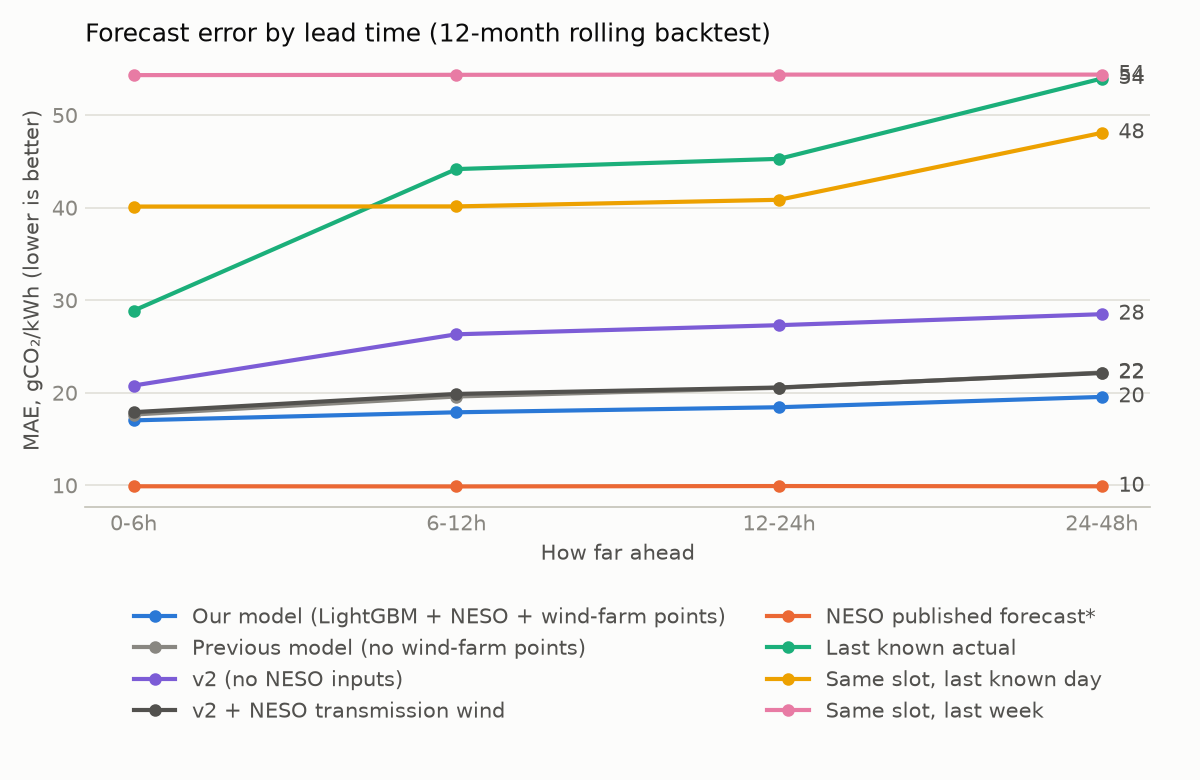
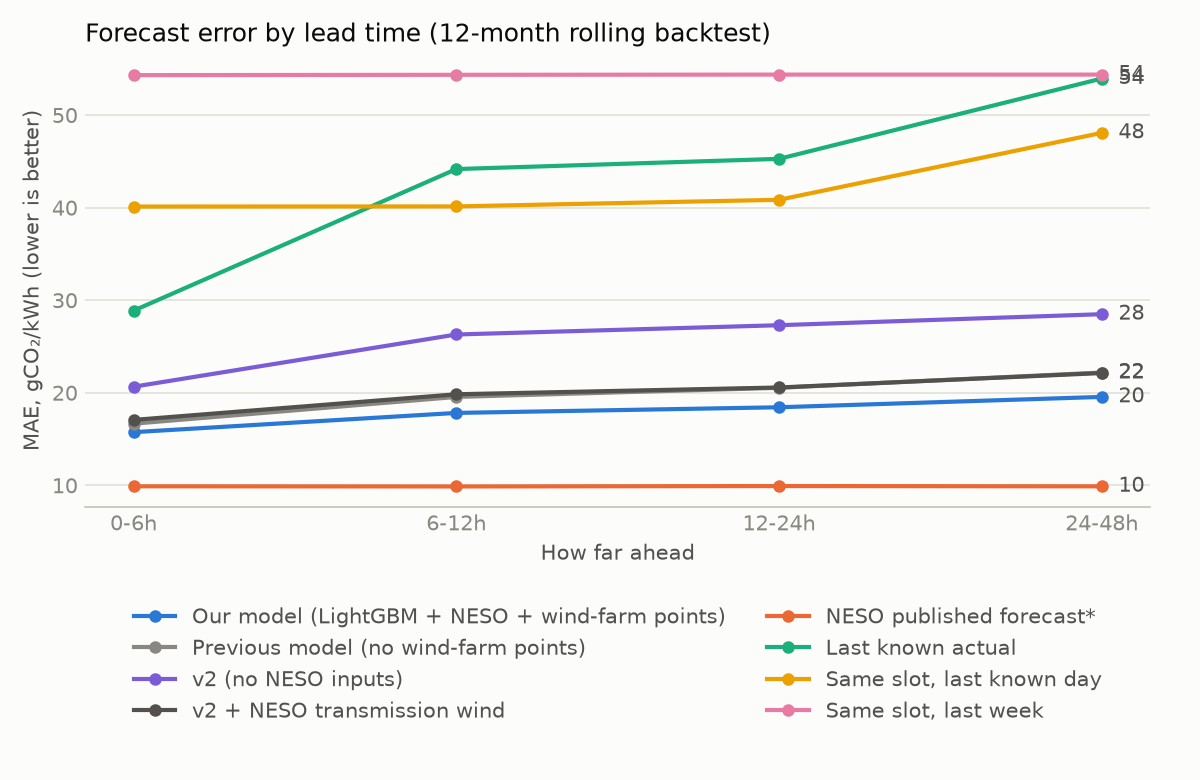
Persistence decay 6 -> 2 (re-checked on held-out months); refresh backtest docs (#44)

Changed region(s): [[0.0925, 0.4615, 0.4625, 0.5846], [0.2775, 0.4308, 0.3083, 0.4615]]

diff --git a/analysis/backtest.py b/analysis/backtest.py
@@ -140,7 +140,7 @@ _Generated by `analysis/backtest.py`. {preds["issued_at"].nunique():,} forecasts
 over the last 12 months, each predicting the next 48 h (96 half-hours): {len(preds):,} predictions._
 
 **Method.** Direct multi-horizon LightGBM: one model, lead time as a feature, pulled towards the
-last known actual at short leads (weight exp(-(lead-1)/6), tuned on the first 6 test months only).
+last known actual at short leads (weight exp(-(lead-1)/{fc.PERSISTENCE_DECAY}), tuned on the first 6 test months only).
 Training issues every 6.5 h, so every half-hour of the day is seen as an issue time. Rolling origin: for
 each test month the model is retrained only on rows whose *targets* fall before the month starts.
 Features use only data available at issue time: actuals end 1 h before issue (publication lag),

diff --git a/tests/test_forecast.py b/tests/test_forecast.py
@@ -102,6 +102,13 @@ def test_blend_trusts_last_actual_at_lead_1_and_model_far_out():
     assert out[2] == 170  # no known actual: the model
 
 
+def test_blend_weight_decays_with_lead_at_the_tuned_rate():
+    # docs/decay_tuning.md: decay 2, so the actual's weight is exp(-1) two steps out.
+    rows = pd.DataFrame({"lead": [3], "last_actual": [100.0]})
+    w = np.exp(-1)
+    assert fc.blend(rows, [200.0])[0] == pytest.approx(w * 100 + (1 - w) * 200)
+
+
 def test_training_issues_cover_every_half_hour_of_the_day():
     # Regression: a fixed 6 h issue grid never trained on live issue times like 13:30.
     issues = fc.issue_times(START, START + pd.Timedelta(days=30))

diff --git a/src/gridcarbon/forecast.py b/src/gridcarbon/forecast.py
@@ -28,9 +28,9 @@ ISSUE_EVERY = "390min"
 MODEL_VERSION = "lgbm-direct-v4"
 # BASE_FEATURES only, when NESO or wind-point inputs are missing
 FALLBACK_VERSION = "lgbm-direct-v4-fallback"
-# Short leads lean on the last known actual: weight exp(-(lead-1)/6). Decay chosen on the first
+# Short leads lean on the last known actual: weight exp(-(lead-1)/decay). Decay chosen on the first
 # 6 backtest months, checked on the last 6: see docs/decay_tuning.md (analysis/tune_decay.py).
-PERSISTENCE_DECAY = 6
+PERSISTENCE_DECAY = 2
 BASE_FEATURES = [
     "lead", "halfhour_slot", "iso_weekday", "month", "is_holiday",
     "last_actual", "mean_24h", "lag_day", "lag_week",

diff --git a/docs/backtest.md b/docs/backtest.md
@@ -4,7 +4,7 @@ _Generated by `analysis/backtest.py`. 1,348 forecasts issued every 6.5 h
 over the last 12 months, each predicting the next 48 h (96 half-hours): 129,408 predictions._
 
 **Method.** Direct multi-horizon LightGBM: one model, lead time as a feature, pulled towards the
-last known actual at short leads (weight exp(-(lead-1)/6), tuned on the first 6 test months only).
+last known actual at short leads (weight exp(-(lead-1)/2), tuned on the first 6 test months only).
 Training issues every 6.5 h, so every half-hour of the day is seen as an issue time. Rolling origin: for
 each test month the model is retrained only on rows whose *targets* fall before the month starts.
 Features use only data available at issue time: actuals end 1 h before issue (publication lag),
@@ -12,26 +12,26 @@ Features use only data available at issue time: actuals end 1 h before issue (pu
 Open-Meteo's *historical forecast*, never observed weather. These rules are enforced by
 `tests/test_forecast.py`.
 
-**Result.** Over all leads the model's MAE is **18.7 gCO₂/kWh**, vs
+**Result.** Over all leads the model's MAE is **18.6 gCO₂/kWh**, vs
 **44.3** for the best naïve baseline (**58%
 better**) and **9.9** for NESO's published forecast. The model takes forecast
 wind speed at each of 11 wind points as separate inputs (the wind-farm
 clusters plus the points already averaged); without them (the previous model, v3) it scores
-**20.9**. It also uses NESO's own embedded wind/solar forecasts (the vintage
+**20.8**. It also uses NESO's own embedded wind/solar forecasts (the vintage
 issued before each forecast, never a later one); without those too (v2) it scores
-**27.0**. Adding NESO's transmission wind forecast to v2 gives
-**20.9**, but its archive only covers the day each forecast is
+**26.9**. Adding NESO's transmission wind forecast to v2 gives
+**20.8**, but its archive only covers the day each forecast is
 published, so most 48 h targets lack it and it is left out.
 
 ![MAE by lead](img/backtest_mae_by_lead.png)
 
 |  | Our model (LightGBM + NESO + wind-farm points) | Previous model (no wind-farm points) | v2 (no NESO inputs) | v2 + NESO transmission wind | NESO published forecast* | Last known actual | Same slot, last known day | Same slot, last week |
 | --- | --- | --- | --- | --- | --- | --- | --- | --- |
-| 0-6h | 17 | 17.6 | 20.8 | 17.9 | 9.9 | 28.9 | 40.1 | 54.3 |
-| 6-12h | 17.9 | 19.6 | 26.3 | 19.9 | 9.9 | 44.2 | 40.1 | 54.4 |
+| 0-6h | 15.7 | 16.7 | 20.7 | 17.1 | 9.9 | 28.9 | 40.1 | 54.3 |
+| 6-12h | 17.8 | 19.6 | 26.3 | 19.8 | 9.9 | 44.2 | 40.1 | 54.4 |
 | 12-24h | 18.4 | 20.5 | 27.3 | 20.6 | 9.9 | 45.3 | 40.8 | 54.4 |
 | 24-48h | 19.6 | 22.2 | 28.5 | 22.1 | 9.9 | 53.9 | 48.1 | 54.4 |
-| all | 18.7 | 20.9 | 27 | 20.9 | 9.9 | 47.4 | 44.3 | 54.4 |
+| all | 18.6 | 20.8 | 26.9 | 20.8 | 9.9 | 47.4 | 44.3 | 54.4 |
 
 \* **Read the NESO column with care.** The API only keeps NESO's *final* published forecast for
 each half-hour, not when it was made, so it is likely a short-lead forecast. That makes it a
@@ -46,26 +46,26 @@ at long leads to be somewhat higher than this backtest.
 
 |  | Our model (LightGBM + NESO + wind-farm points) | Previous model (no wind-farm points) | v2 (no NESO inputs) | v2 + NESO transmission wind | NESO published forecast* | Last known actual | Same slot, last known day | Same slot, last week |
 | --- | --- | --- | --- | --- | --- | --- | --- | --- |
-| 0-6h | 1.1 | 0.4 | 2.9 | 0.3 | 0.1 | 0.2 | 0.2 | 0.7 |
-| 6-12h | 1.7 | 0.8 | 6 | 0.6 | 0.2 | 0.1 | 0.1 | 0.7 |
+| 0-6h | 1.6 | 0.6 | 4.2 | 0.3 | 0.1 | 0.2 | 0.2 | 0.7 |
+| 6-12h | 1.8 | 0.8 | 6.4 | 0.7 | 0.2 | 0.1 | 0.1 | 0.7 |
 | 12-24h | 1.9 | 1.1 | 7.4 | 1.1 | 0.2 | 0.2 | 0 | 0.7 |
 | 24-48h | 2.4 | 1.6 | 7.9 | 2.1 | 0.1 | 0.1 | -0 | 0.6 |
-| all | 2 | 1.3 | 6.9 | 1.4 | 0.1 | 0.1 | 0 | 0.6 |
+| all | 2.1 | 1.3 | 7.1 | 1.4 | 0.1 | 0.1 | 0 | 0.6 |
 
 |  | Our model (LightGBM + NESO + wind-farm points) | Previous model (no wind-farm points) | v2 (no NESO inputs) | NESO published forecast* |
 | --- | --- | --- | --- | --- |
-| 2025-10 | 7.6 | 6.8 | 11.1 | 0.6 |
-| 2025-11 | 5 | 7.1 | 12.7 | 3.4 |
-| 2025-12 | 5.2 | 3.2 | 12.7 | 3 |
-| 2026-01 | -2.4 | -0 | 13.5 | 1.8 |
-| 2026-02 | -0.7 | -0.3 | 7 | 2 |
-| 2026-03 | 6.2 | 2 | 2.2 | 0.5 |
-| 2026-04 | 12.1 | 7.3 | 13 | -0.7 |
-| 2026-05 | -6.3 | -9.2 | -3.9 | -0.8 |
-| 2026-06 | -17.5 | -14.9 | -4.6 | -0.4 |
-| 2026-07 | 3.6 | 2.8 | 7.4 | -0.9 |
-| 2026-08 | 6.8 | 9.8 | 9.4 | -1.3 |
-| 2026-09 | 5 | 1 | 3 | -5.5 |
+| 2025-10 | 8 | 7.1 | 11.5 | 0.6 |
+| 2025-11 | 5.3 | 7.3 | 13.1 | 3.4 |
+| 2025-12 | 5.4 | 3.3 | 13.1 | 3 |
+| 2026-01 | -2.5 | -0 | 14.1 | 1.8 |
+| 2026-02 | -0.6 | -0.2 | 7.4 | 2 |
+| 2026-03 | 6.4 | 2 | 2.1 | 0.5 |
+| 2026-04 | 12.5 | 7.4 | 13.3 | -0.7 |
+| 2026-05 | -6.6 | -9.5 | -4.1 | -0.8 |
+| 2026-06 | -18.2 | -15.5 | -4.8 | -0.4 |
+| 2026-07 | 3.7 | 2.9 | 7.6 | -0.9 |
+| 2026-08 | 7 | 10.1 | 9.7 | -1.3 |
+| 2026-09 | 5.2 | 1 | 3 | -5.5 |
 | 2026-10 | -11.4 | -19.3 | -3.9 | 1 |
 
 **Greenest 3 h window.** For each forecast, pick the cleanest 3 h block it predicts and compare
@@ -74,10 +74,10 @@ the actual intensity in that block with the truly cleanest block. Regret is the 
 
 |  | mean regret | share within 5 of best |
 | --- | --- | --- |
-| Our model (LightGBM + NESO + wind-farm points) | 5.86 | 0.674 |
-| Previous model (no wind-farm points) | 6.7 | 0.662 |
-| v2 (no NESO inputs) | 9.57 | 0.558 |
-| v2 + NESO transmission wind | 6.74 | 0.672 |
+| Our model (LightGBM + NESO + wind-farm points) | 5.52 | 0.677 |
+| Previous model (no wind-farm points) | 6.3 | 0.677 |
+| v2 (no NESO inputs) | 9.18 | 0.568 |
+| v2 + NESO transmission wind | 6.18 | 0.685 |
 | NESO published forecast* | 2.99 | 0.83 |
 | Last known actual | 57.5 | 0.128 |
 | Same slot, last known day | 30.4 | 0.295 |
@@ -90,9 +90,9 @@ only if the whole interval is below zero.
 
 |  | MAE minus live model | 95% low | 95% high |
 | --- | --- | --- | --- |
-| Previous model (no wind-farm points) | 2.13 | 1.5 | 2.76 |
-| v2 (no NESO inputs) | 8.21 | 6.8 | 9.67 |
-| v2 + NESO transmission wind | 2.18 | 1.51 | 2.85 |
+| Previous model (no wind-farm points) | 2.17 | 1.5 | 2.83 |
+| v2 (no NESO inputs) | 8.36 | 6.9 | 9.88 |
+| v2 + NESO transmission wind | 2.24 | 1.54 | 2.94 |
 
 **What drives the model** (share of total gain):
 

diff --git a/README.md b/README.md
@@ -47,7 +47,7 @@ From [`docs/findings.md`](docs/findings.md) (every number computed by `analysis/
 
 A direct multi-horizon LightGBM model predicts all 96 half-hours of the next 48 h from the
 calendar, recent actuals, forecast weather and NESO's own embedded wind/solar forecasts. Over a 12-month
-rolling-origin backtest (last run <!-- bt:run_date -->2026-10-19<!-- /bt -->) its MAE is **<!-- bt:model_mae -->18.7<!-- /bt --> gCO₂/kWh**,
+rolling-origin backtest (last run <!-- bt:run_date -->2026-11-01<!-- /bt -->) its MAE is **<!-- bt:model_mae -->18.6<!-- /bt --> gCO₂/kWh**,
 **<!-- bt:improvement -->58%<!-- /bt --> better** than the best naïve baseline (<!-- bt:best_baseline_mae -->44.3<!-- /bt -->), and it beats "repeat the last
 actual" at every lead time. NESO's published forecast scores <!-- bt:neso_mae -->9.9<!-- /bt -->, but the API keeps only NESO's *final*, short-lead forecast, so the fair comparison is the
 **live track record**: both forecasts issued in the same pipeline run, scored when actuals arrive
@@ -68,7 +68,7 @@ forecasts came in too low, NESO by more (MAE 42–50 vs our 15–23), as wind fe
 over 27–29 Oct and the 1–2 day weather forecast had it too windy (same cause as 22 Oct, opposite sign).
 
 **NESO forecasts as inputs.** NESO's embedded wind/solar forecasts (always the vintage published
-before each forecast) cut the backtest MAE from <!-- bt:previous_model_mae -->27.0<!-- /bt --> to <!-- bt:v3_model_mae -->20.9<!-- /bt -->. NESO's transmission wind
+before each forecast) cut the backtest MAE from <!-- bt:previous_model_mae -->26.9<!-- /bt --> to <!-- bt:v3_model_mae -->20.8<!-- /bt -->. NESO's transmission wind
 forecast is left out: its archive only covers the day each forecast is published, so most 48 h
 targets lack it.
 
@@ -113,7 +113,8 @@ Found by running against the real APIs, not by unit tests (full write-up in
   skew (training issue times on a fixed 6 h grid; fixed with a 6.5 h grid that cycles through
   every half-hour), plus the model under-weighting the latest actual at very short leads. A
   persistence blend was tuned on half the backtest and checked on the other half: 0–2 h error
-  fell from 19.1 to 17.0.
+  fell from 19.1 to 17.0 (decay 6; a 1 Nov re-check
+  found decay 2 better and it is now live, see docs/decay_tuning.md).
 - **GitHub skipped half the scheduled runs.** At "every 2 hours", GitHub started only 12 of 26
   scheduled runs over 16–18 Oct (median gap 4.4 h). An external scheduler (cron-job.org) now
   calls the workflow-dispatch API every 3 hours with a token scoped to this repo's Actions only,
@@ -133,8 +134,8 @@ Found by running against the real APIs, not by unit tests (full write-up in
 | 7 | Analysis & findings → [`docs/findings.md`](docs/findings.md) | ✅ Done |
 | 8 | 48h forecast, backtest, live scoring vs NESO → [`docs/backtest.md`](docs/backtest.md) | ✅ Live |
 | 9 | Streamlit dashboard (`app/streamlit_app.py`) → [live](https://gb-grid-carbon-b8k4zy3yzvfzqzxewxzdsk.streamlit.app/) | ✅ Live |
-| 10 | NESO embedded wind/solar forecasts as live model inputs (backtest MAE <!-- bt:previous_model_mae -->27.0<!-- /bt --> → <!-- bt:v3_model_mae -->20.9<!-- /bt -->) | ✅ Live |
-| 11 | Forecast wind speed at 11 wind-farm points as live model inputs (backtest MAE <!-- bt:v3_model_mae -->20.9<!-- /bt --> → <!-- bt:model_mae -->18.7<!-- /bt -->) | ✅ Live |
+| 10 | NESO embedded wind/solar forecasts as live model inputs (backtest MAE <!-- bt:previous_model_mae -->26.9<!-- /bt --> → <!-- bt:v3_model_mae -->20.8<!-- /bt -->) | ✅ Live |
+| 11 | Forecast wind speed at 11 wind-farm points as live model inputs (backtest MAE <!-- bt:v3_model_mae -->20.8<!-- /bt --> → <!-- bt:model_mae -->18.6<!-- /bt -->) | ✅ Live |
 
 Full plan: [`docs/project_plan.md`](docs/project_plan.md). Decisions and surprises:
 [`docs/dev_log.md`](docs/dev_log.md). CV bullets and interview notes:

diff --git a/docs/dev_log.md b/docs/dev_log.md
@@ -444,3 +444,18 @@ leakage; these are the loader fixes. Each has a test that failed first.
 too. It is now set per step on the six that connect to MotherDuck (incremental load, source
 freshness, dbt build, predict, score, docs generate). `DB_TARGET` and `DBT_TARGET` stay job-level.
 No offline test covers a workflow; checked by a manual `workflow_dispatch` run after merge.
+
+## 1 Nov 2026: persistence decay 6 -> 2
+
+`analysis/tune_decay.py` re-ran the choice from one unblended backtest. Chosen on the first 6
+months only (rule fixed beforehand): decay 2 (17.78 MAE against 17.93 at decay 6; 3 ties at the
+rounded value). Check on the last 6 months: 0-2 h MAE 14.8 against 16.2 at decay 6 and 17.7 with
+no blend; all leads 19.37 against 19.56. Decay 6 was slightly worse than no blend overall.
+The 19.1 -> 17.0 figure from 12 Oct does not reproduce and is not used any more. Live from the
+merge of this change; the model label stays `lgbm-direct-v4`, so compare live error before and
+after the merge date (`analysis/live_bias.py --since <date>`). Revert if 0-2 h live MAE does not
+improve after about 2 weeks.
+
+Backtest re-run with decay 2: headline MAE 18.7 -> 18.6 (v3 20.9 -> 20.8, v2 27.0 -> 26.9; NESO
+and the baselines unchanged). README, showcase and the dashboard caption updated from
+`docs/backtest_results.json`.

diff --git a/docs/showcase.md b/docs/showcase.md
@@ -12,7 +12,7 @@ Material for the CV, LinkedIn and interviews. Every number comes from `docs/find
   31 December in year-spanning requests (missing data 10.4% → 0.29%), and 16 impossible upstream
   forecasts caught by a dbt range test.
 - Developed a 48-hour LightGBM carbon-intensity forecast with leakage-safe features and a 12-month
-  rolling-origin backtest; MAE <!-- bt:model_mae -->18.7<!-- /bt --> gCO₂/kWh, <!-- bt:improvement -->58%<!-- /bt --> better than naïve baselines, and scored live
+  rolling-origin backtest; MAE <!-- bt:model_mae -->18.6<!-- /bt --> gCO₂/kWh, <!-- bt:improvement -->58%<!-- /bt --> better than naïve baselines, and scored live
   against the system operator's forecast every pipeline run.
 - Analysed 9 years of grid data with bootstrap confidence intervals: intensity fell 48% (2018–2025),
   midday is now the cleanest time from spring to autumn, and smart EV charging cuts charging

diff --git a/docs/decay_tuning.md b/docs/decay_tuning.md
@@ -1,0 +1,17 @@
+# Persistence decay check
+
+_Generated by `analysis/tune_decay.py`. Weight on the last known actual is exp(-(lead-1)/decay).
+Decay is chosen on the first 6 backtest months only; the last 6 are for checking. MAE in
+gCO₂/kWh. Live setting: `PERSISTENCE_DECAY = 6`. Best on the first 6 months:
+**2**._
+
+| decay | first 6 mo, all leads | last 6 mo, leads 1-4 | last 6 mo, all leads |
+| --- | --- | --- | --- |
+| no blend | 17.88 | 17.65 | 19.51 |
+| 2 | 17.78 | 14.78 | 19.37 |
+| 3 | 17.78 | 15.06 | 19.37 |
+| 4 | 17.81 | 15.48 | 19.41 |
+| 6 | 17.93 | 16.23 | 19.56 |
+| 8 | 18.11 | 16.76 | 19.78 |
+| 12 | 18.62 | 17.42 | 20.31 |
+| 24 | 20.68 | 18.24 | 22.18 |
